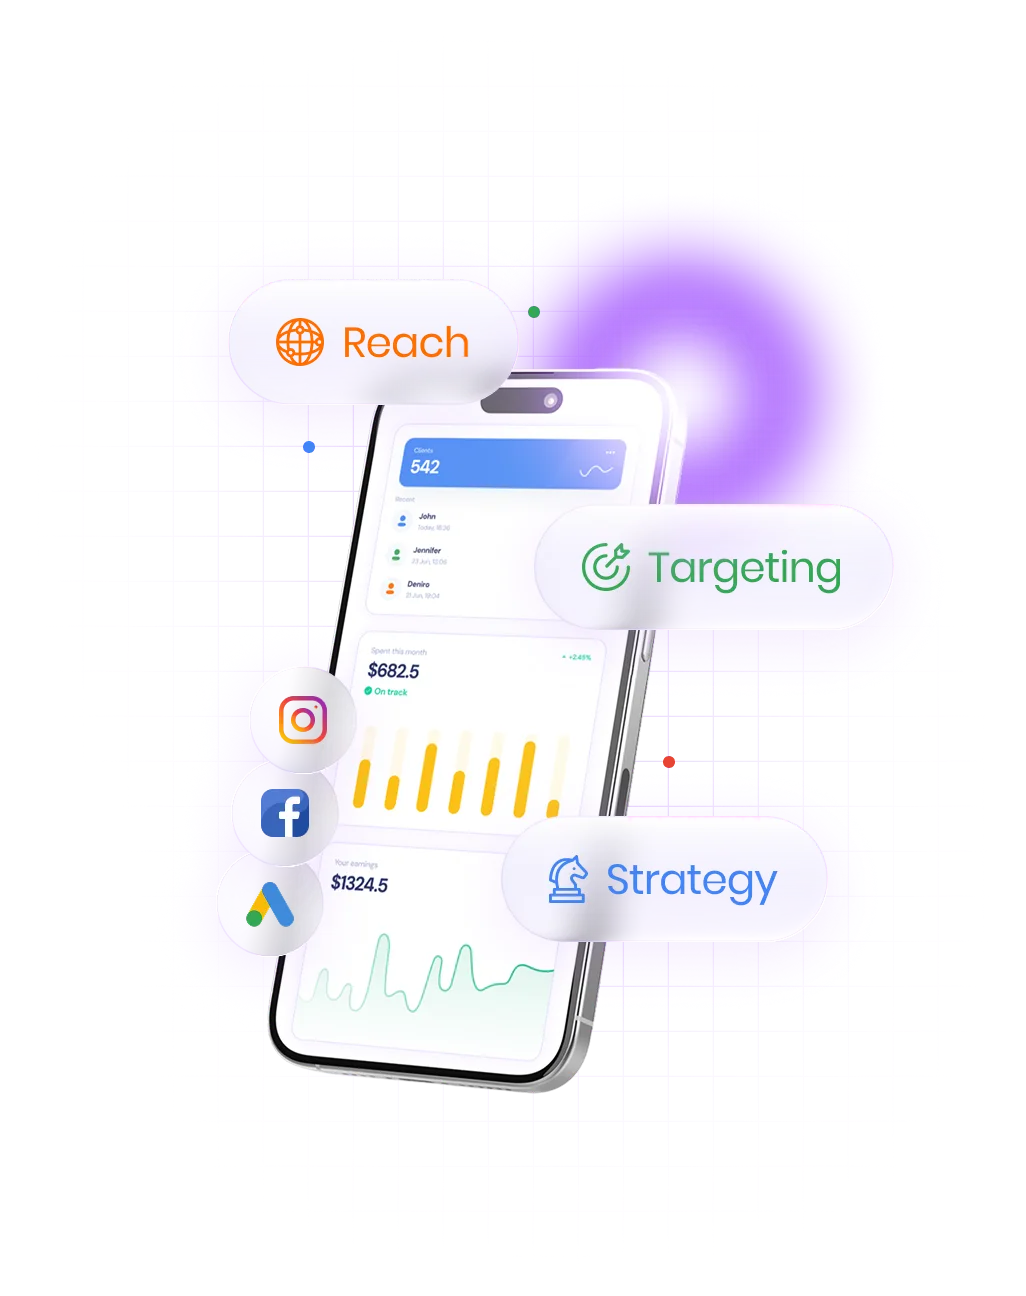
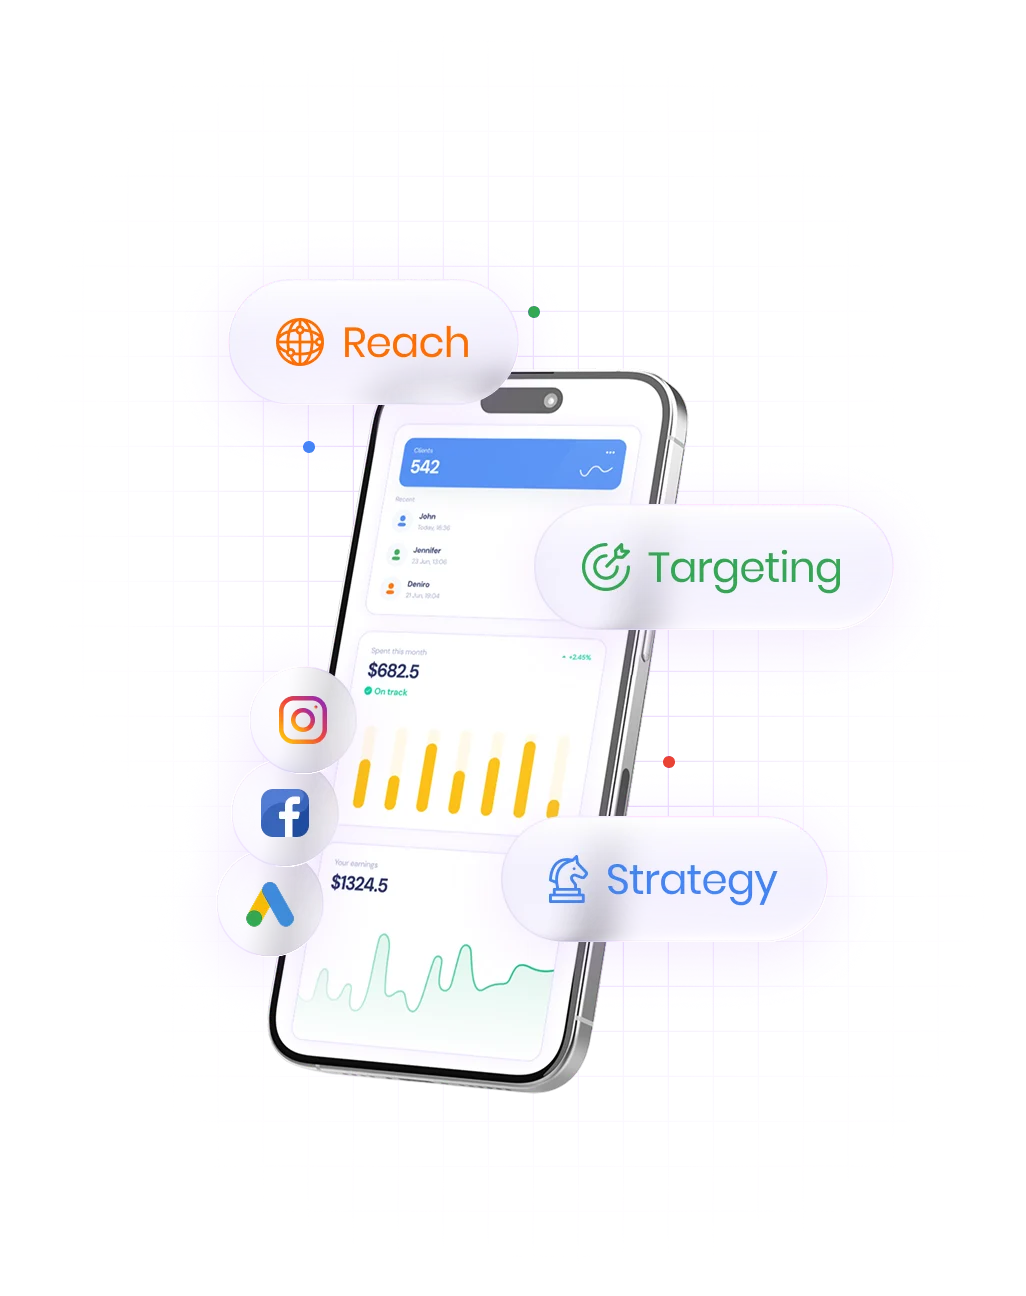
fix: images in service cards

Changed region(s): [[0.499, 0.1543, 0.8421, 0.4012]]

diff --git a/components/home/ServicesGrid.jsx b/components/home/ServicesGrid.jsx
@@ -49,15 +49,19 @@ const SERVICES = [
   },
 ];
 
-function WideCardImage({ src, alt }) {
+function WideCardImage({ src, alt, mobileHeight = "h-44" }) {
   return (
-    <div className="relative h-52 md:h-auto md:flex-1 overflow-hidden">
-      <Image
-        src={src}
-        alt={alt}
-        fill
-        className="object-contain object-[right_55%]"
-      />
+    <div className="order-first md:order-none md:flex-1">
+      {/* Mobile: centered with padding */}
+      <div className="px-8 pt-6 pb-2 md:hidden">
+        <div className={`relative ${mobileHeight}`}>
+          <Image src={src} alt={alt} fill className="object-contain" sizes="(max-width: 768px) 80vw, 0vw" />
+        </div>
+      </div>
+      {/* Desktop: full bleed */}
+      <div className="hidden md:block relative h-full min-h-[240px]">
+        <Image src={src} alt={alt} fill className="object-contain object-[right_55%]" sizes="(min-width: 768px) 50vw, 0vw" />
+      </div>
     </div>
   );
 }
@@ -92,7 +96,7 @@ function ServiceCardContent({ service }) {
 
   const textSide = (
     <div className="flex-1 p-6 md:p-10 flex flex-col">
-      <div className={`w-14 h-14 rounded-2xl ${iconBg} flex items-center justify-center mb-4`}>
+      <div className={`w-14 h-14 rounded-2xl ${iconBg} hidden md:flex items-center justify-center mb-4`}>
         <Icon className={iconColor} size={28} />
       </div>
       <h3 className={`text-2xl font-bold tracking-tight ${textColor} mb-3`}>
@@ -116,7 +120,7 @@ function ServiceCardContent({ service }) {
     return (
       <div className="flex flex-col md:flex-row h-full rounded-2xl overflow-hidden">
         {textSide}
-        <WideCardImage src={service.image} alt="Websites & SEO" />
+        <WideCardImage src={service.image} alt="Websites & SEO" mobileHeight="h-40" />
       </div>
     );
   }
@@ -125,15 +129,28 @@ function ServiceCardContent({ service }) {
     return (
       <div className={`flex flex-col md:flex-row h-full ${bgClass} rounded-2xl overflow-hidden`}>
         {textSide}
-        <WideCardImage src={service.image} alt="AI & Automation" />
+        <WideCardImage src={service.image} alt="AI & Automation" mobileHeight="h-72" />
       </div>
     );
   }
 
   return (
     <div className={`flex flex-col h-full ${bgClass} rounded-2xl overflow-hidden`}>
+      {/* Mobile: image at top, centered with padding */}
+      <div className="px-8 pt-6 pb-2 md:hidden">
+        <div className="relative h-64">
+          <Image
+            src={service.image}
+            alt={service.title}
+            fill
+            className="object-contain"
+            sizes="(max-width: 768px) 80vw, 0vw"
+          />
+        </div>
+      </div>
       <div className="flex flex-col flex-grow p-6 md:p-10">
-        <div className={`w-14 h-14 rounded-2xl ${iconBg} flex items-center justify-center mb-4`}>
+        {/* Icon: desktop only */}
+        <div className={`w-14 h-14 rounded-2xl ${iconBg} hidden md:flex items-center justify-center mb-4`}>
           <Icon className={iconColor} size={28} />
         </div>
         <h3 className={`text-2xl font-bold tracking-tight ${textColor} mb-3`}>
@@ -151,7 +168,8 @@ function ServiceCardContent({ service }) {
           </span>
         </div>
       </div>
-      <div className="relative h-44 overflow-hidden">
+      {/* Desktop: image at bottom */}
+      <div className="relative h-44 overflow-hidden hidden md:block">
         <Image
           src={service.image}
           alt={service.title}

diff --git a/components/home/ComparisonTable.jsx b/components/home/ComparisonTable.jsx
@@ -31,7 +31,9 @@ function AgencyPanel() {
               {row.label}
             </div>
             <div className="text-lg font-light text-black/40 flex items-start">
-              <X className="text-black/20 mr-3 flex-shrink-0 w-5 h-5 mt-0.5" />
+              <span className="w-6 h-6 rounded-full bg-black/10 flex items-center justify-center flex-shrink-0 mr-3 mt-0.5">
+                <X className="w-3.5 h-3.5 text-black/30" />
+              </span>
               {row.agency}
             </div>
           </div>
@@ -43,18 +45,20 @@ function AgencyPanel() {
 
 function SoraPanel({ revealSora }) {
   return (
-    <div className="relative -translate-y-1">
+    <div className="relative -translate-y-3">
       {/* Glow shadow */}
-      <div className="absolute inset-0 shadow-[0_10px_40px_rgba(151,64,254,0.15)] rounded-2xl pointer-events-none" />
+      <div className="absolute inset-0 shadow-[0_16px_48px_rgba(151,64,254,0.22)] rounded-2xl pointer-events-none" />
 
       {/* Gradient border wrapper */}
       <div className="rounded-2xl bg-gradient-to-br from-primary to-secondary p-[1.5px] h-full">
         <div className="bg-[#faf9ff] backdrop-blur-xl rounded-[calc(1rem-1.5px)] p-8 md:p-10 h-full">
-          <div className="mb-6">
-            <span className="bg-accent text-primary text-sm font-bold px-4 py-2 rounded-full">
+          <div className="mb-4">
+            <span className="bg-accent text-primary text-sm font-bold px-4 py-2 rounded-full inline-flex items-center gap-2">
+              <span className="w-2 h-2 rounded-full bg-primary animate-pulse" />
               With Sora
             </span>
           </div>
+          <div className="border-t border-black/10 mb-2" />
           <div className="flex flex-col">
             {rows.map((row, i) => (
               <motion.div
@@ -70,7 +74,9 @@ function SoraPanel({ revealSora }) {
                   {row.label}
                 </div>
                 <div className="text-lg font-medium text-black flex items-start">
-                  <Check className="text-[#9740fe] mr-3 flex-shrink-0 w-5 h-5 mt-0.5" />
+                  <span className="w-6 h-6 rounded-full bg-accent flex items-center justify-center flex-shrink-0 mr-3 mt-0.5">
+                    <Check className="w-3.5 h-3.5 text-primary" />
+                  </span>
                   {row.sora}
                 </div>
               </motion.div>
@@ -101,10 +107,9 @@ export default function ComparisonTable() {
         <div className="text-center mb-16">
           <h2 className="text-4xl font-extrabold tracking-tight text-black">
             Why{" "}
-            <span className="underline decoration-black decoration-2 underline-offset-4">
-              Sora
+            <span className="gradient-text underline decoration-primary decoration-2 underline-offset-4">
+              Sora?
             </span>
-            ?
           </h2>
           <p className="mt-4 text-lg font-light tracking-wide text-black/60 max-w-2xl mx-auto">
             You&apos;ve probably worked with agencies before. Here&apos;s how that usually goes — and why this is different.
